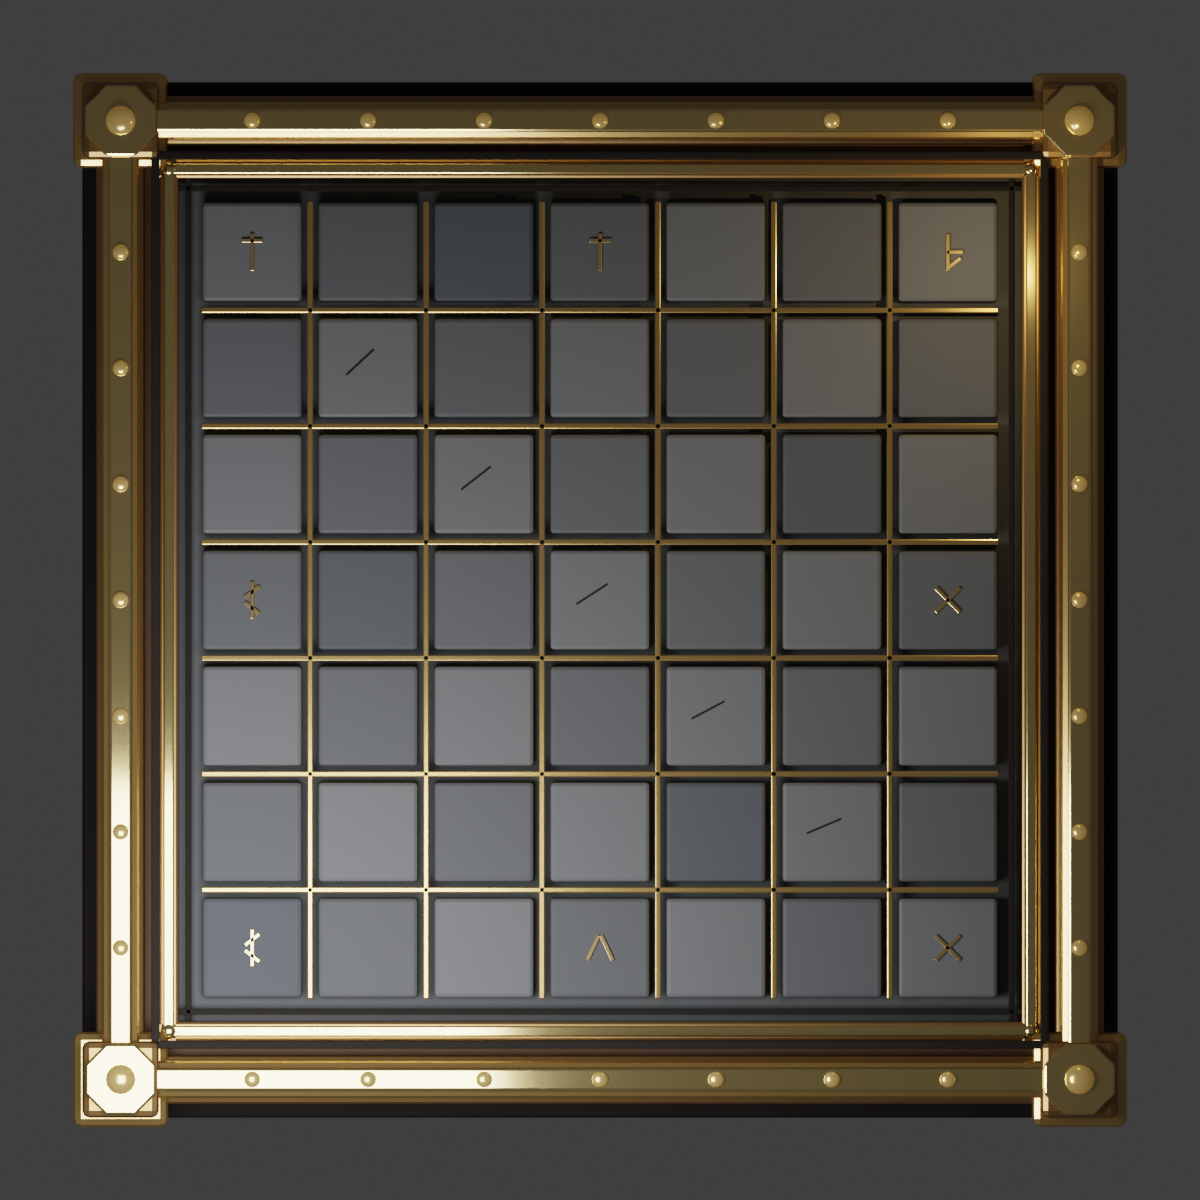
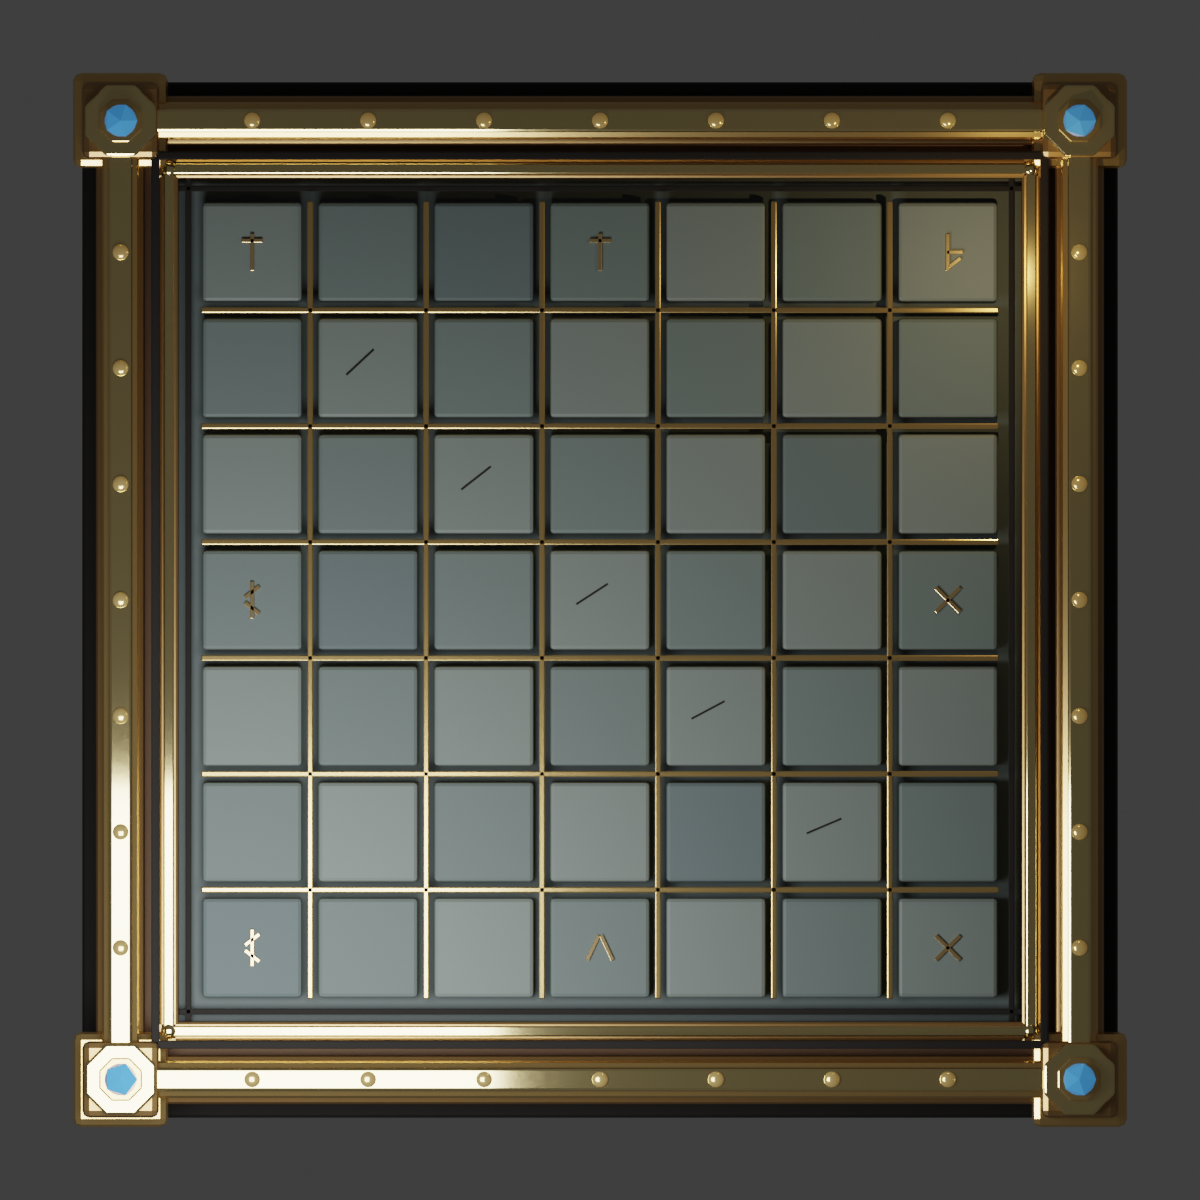
feat: upgrade route board to toy-like premium style

diff --git a/tools/blender/create_route_board_glb.py b/tools/blender/create_route_board_glb.py
@@ -157,40 +157,50 @@ def make_material(
 
 def create_materials() -> dict[str, bpy.types.Material]:
     return {
-        # Two-tone dark wood body (richer, with a darker grain inlay band).
-        "DarkWood": make_material("DarkWood", (0.165, 0.094, 0.05, 1), 0.06, 0.62),
+        # Warm dark-wood body (richer brown) + darker grain inlay band.
+        "DarkWood": make_material("DarkWood", (0.18, 0.105, 0.058, 1), 0.06, 0.6),
         "WoodGrainDark": make_material(
-            "WoodGrainDark", (0.095, 0.052, 0.028, 1), 0.06, 0.72
+            "WoodGrainDark", (0.1, 0.056, 0.03, 1), 0.06, 0.7
         ),
-        # Recessed slate play bed — lifted, cool-neutral so it reads as stone.
-        "DarkStone": make_material("DarkStone", (0.105, 0.112, 0.118, 1), 0.04, 0.7),
-        # Aged-brass / bronze metal family — warmer, more luxurious, glossier.
-        "AgedBrass": make_material("AgedBrass", (0.82, 0.55, 0.22, 1), 0.86, 0.22),
-        "BronzeDark": make_material("BronzeDark", (0.44, 0.27, 0.115, 1), 0.82, 0.34),
+        # Recessed sage/teal slate play bed.
+        "DarkStone": make_material("DarkStone", (0.11, 0.138, 0.137, 1), 0.04, 0.66),
+        # Clean warm brass / bronze metal family (premium gold, not dirty bronze).
+        "AgedBrass": make_material("AgedBrass", (0.86, 0.6, 0.26, 1), 0.9, 0.2),
+        "BronzeDark": make_material("BronzeDark", (0.5, 0.32, 0.14, 1), 0.85, 0.32),
         "BrassPolished": make_material(
-            "BrassPolished", (0.98, 0.76, 0.36, 1), 0.92, 0.12
+            "BrassPolished", (1.0, 0.82, 0.42, 1), 0.95, 0.1
         ),
-        "DeepShadow": make_material("DeepShadow", (0.022, 0.018, 0.015, 1), 0.0, 0.9),
-        # Three slate tile variations — lifted with a wider tonal spread (more
-        # depth, clearer checker, subtle sheen) but still dark slate.
+        "DeepShadow": make_material("DeepShadow", (0.022, 0.02, 0.018, 1), 0.0, 0.9),
+        # Three sage/teal slate tile variations — brighter, cleaner, toy-like,
+        # still readable under the bright emissive game pieces.
         "TileVariationA": make_material(
-            "TileVariationA", (0.175, 0.184, 0.196, 1), 0.05, 0.6
+            "TileVariationA", (0.205, 0.245, 0.232, 1), 0.04, 0.56
         ),
         "TileVariationB": make_material(
-            "TileVariationB", (0.132, 0.14, 0.152, 1), 0.05, 0.66
+            "TileVariationB", (0.16, 0.205, 0.198, 1), 0.04, 0.62
         ),
         "TileVariationC": make_material(
-            "TileVariationC", (0.108, 0.122, 0.14, 1), 0.05, 0.72
+            "TileVariationC", (0.135, 0.178, 0.182, 1), 0.04, 0.66
         ),
         # Brass rune inlay (metallic catch-light, not emissive — stays subtle).
-        "RuneInlay": make_material("RuneInlay", (0.84, 0.6, 0.3, 1), 0.84, 0.18),
+        "RuneInlay": make_material("RuneInlay", (0.9, 0.66, 0.34, 1), 0.88, 0.16),
+        # Signature blue gemstone for the corner caps — glossy dielectric with a
+        # soft cyan glow so it reads from the game camera without overexposing.
+        "CornerGem": make_material(
+            "CornerGem",
+            (0.1, 0.34, 0.74, 1),
+            0.0,
+            0.1,
+            emission=(0.05, 0.22, 0.5),
+            emission_strength=0.55,
+        ),
         "WarmRivet": make_material(
             "WarmRivet",
-            (0.98, 0.74, 0.32, 1),
-            0.64,
-            0.22,
-            emission=(0.5, 0.27, 0.08),
-            emission_strength=0.2,
+            (1.0, 0.78, 0.36, 1),
+            0.7,
+            0.18,
+            emission=(0.5, 0.28, 0.08),
+            emission_strength=0.18,
         ),
     }
 
@@ -276,6 +286,30 @@ def add_dome_rivet(
     obj.data.materials.append(material)
     bpy.ops.object.transform_apply(location=False, rotation=False, scale=True)
     bpy.ops.object.shade_smooth()
+    return obj
+
+
+def add_gem(
+    name: str,
+    location: tuple[float, float, float],
+    radius: float,
+    material: bpy.types.Material,
+    height_scale: float = 1.0,
+) -> bpy.types.Object:
+    """A flat-shaded icosphere — reads as a faceted cut gemstone."""
+    bpy.ops.mesh.primitive_ico_sphere_add(
+        subdivisions=1,
+        radius=radius,
+        location=target_to_blender(location),
+    )
+    obj = bpy.context.object
+    obj.name = name
+    obj.data.name = f"{name}_Mesh"
+    # target scale (width, vertical, depth) -> Blender (width, depth, vertical)
+    obj.scale = (1.0, 1.0, height_scale)
+    obj.data.materials.append(material)
+    bpy.ops.object.transform_apply(location=False, rotation=False, scale=True)
+    # Left flat-shaded on purpose so each facet catches light like a cut gem.
     return obj
 
 
@@ -468,13 +502,24 @@ def add_outer_frame(materials: dict[str, bpy.types.Material]) -> None:
                 bevel=0.02,
                 rotation_y_degrees=22.5,
             )
-            # Domed crown rivet.
-            add_dome_rivet(
-                f"Corner_Crown_{x_name}_{z_name}",
-                (x, 0.66, z),
-                0.13,
-                materials["WarmRivet"],
-                height_scale=0.7,
+            # Octagonal brass bezel that "sets" the gemstone.
+            add_cylinder(
+                f"Corner_Bezel_{x_name}_{z_name}",
+                (x, 0.67, z),
+                0.2,
+                0.07,
+                materials["AgedBrass"],
+                vertices=8,
+                bevel=0.012,
+                rotation_y_degrees=22.5,
+            )
+            # Signature faceted blue gemstone corner cap (matches the mockup).
+            add_gem(
+                f"Corner_Gem_{x_name}_{z_name}",
+                (x, 0.74, z),
+                0.16,
+                materials["CornerGem"],
+                height_scale=0.9,
             )
 
 

diff --git a/public/models/route/README.md b/public/models/route/README.md
@@ -48,15 +48,21 @@ The generated GLB is exported as Y-up glTF:
 
 The Blender generator creates named procedural materials:
 
-- `DarkWood`
-- `DarkStone`
-- `AgedBrass`
-- `DeepShadow`
-- `TileVariationA`
-- `TileVariationB`
-- `WarmRivet`
+- `DarkWood` / `WoodGrainDark` — warm dark-wood body + grain inlay band
+- `DarkStone` — recessed sage/teal slate play bed
+- `TileVariationA` / `TileVariationB` / `TileVariationC` — sage/teal slate tiles
+  (brighter, cleaner, toy-like; readable under the game pieces)
+- `AgedBrass` / `BronzeDark` / `BrassPolished` — clean warm brass/gold frame,
+  bronze two-tone and polished gold highlights
+- `RuneInlay` — subtle brass rune engravings on selected tiles
+- `CornerGem` — signature faceted blue gemstone set into the four corner caps
+  (glossy dielectric with a soft cyan glow; not overexposed)
+- `WarmRivet` — warm brass domed rivets
+- `DeepShadow` — recessed seams / contact shadow
 
-No external texture files are required.
+No external texture files are required. The four corners are octagonal brass
+caps each set with a faceted blue gemstone (`Corner_Gem_*`), matching the board
+concept sheet; the 7x7 grid, tile centres and surface height are unchanged.
 
 ## Wall / obstacle asset (`wall.glb`)
 